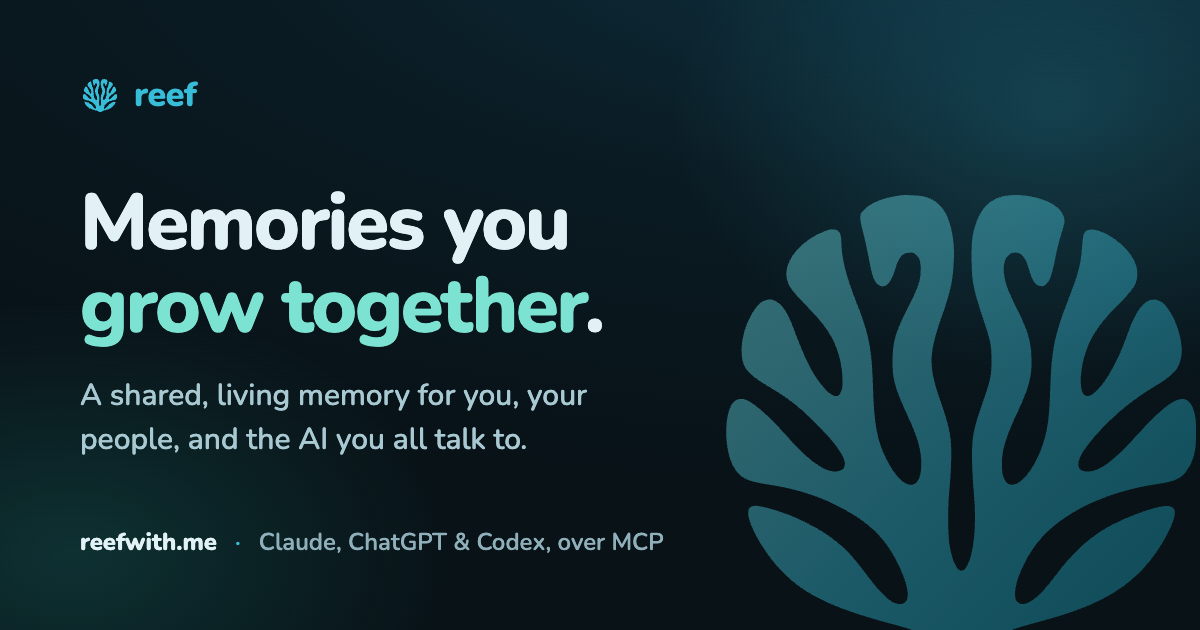
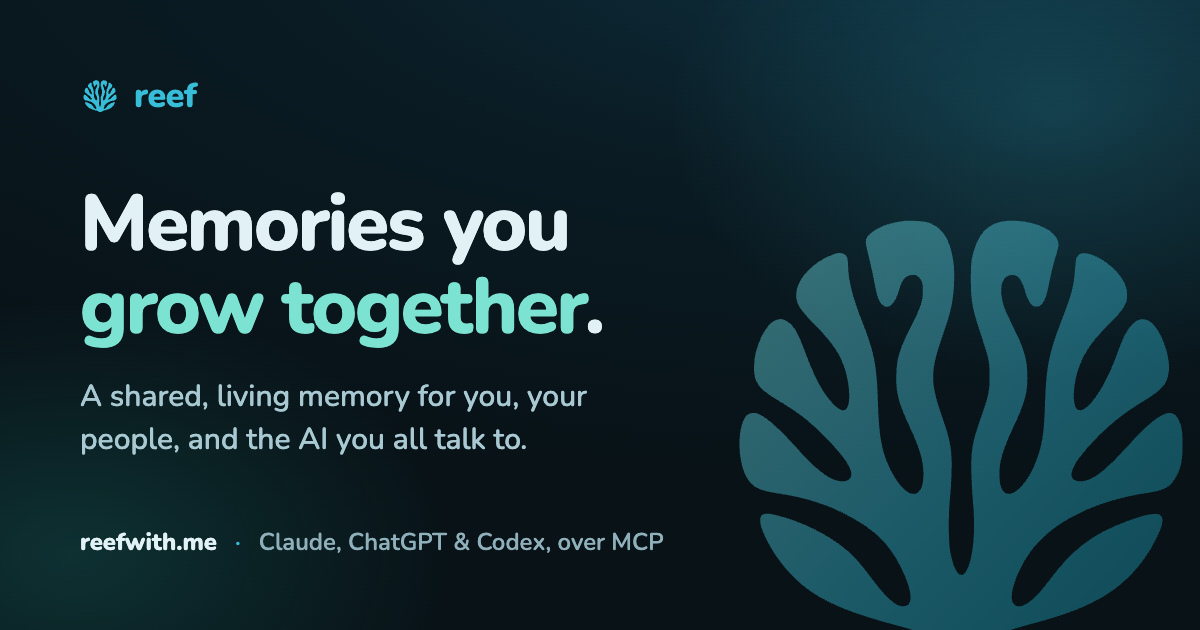
Pad and shrink the brain fan (#89)
* Pad and shrink the brain fan

* docs: add brain fan spacing release note

diff --git a/site/index.html b/site/index.html
@@ -172,7 +172,7 @@ nav {
   font-weight: 800; font-size: 1.2rem; letter-spacing: -0.005em;
   color: var(--accent); text-decoration: none;
 }
-.brand svg { color: var(--accent); width: 21px; height: 18px; }
+.brand svg { color: var(--accent); width: 20px; height: 17px; }
 nav .cta { margin-left: auto; transition: opacity 0.25s ease, visibility 0.25s ease; }
 /* Sign in appears once at a time: the nav button steps aside while the closing panel — which
    carries the same action as its primary call — is on screen. */
@@ -190,7 +190,7 @@ nav.handover .cta { opacity: 0; visibility: hidden; }
 
 /* ---------- hero ---------- */
 .hero { text-align: center; align-items: center; }
-.hero .stage { display: block; width: min(50vmin, 420px); margin: 0 auto; }
+.hero .stage { display: block; width: min(47vmin, 395px); margin: 0 auto; }
 /* Bottom-anchored, because the coral is rooted in the seabed: skew and vertical scale pivot on
    the box's bottom edge, which is exactly the ground line. Block wrappers, not inline-block —
    an inline-block sits on a text baseline and would pivot a few px below the ground. The
@@ -613,7 +613,7 @@ footer a { color: var(--muted); }
 }
 @media (max-width: 680px) {
   body::before { opacity: 0.24; }
-  .hero .stage { width: min(62vw, 330px); }
+  .hero .stage { width: min(58vw, 310px); }
   .story-demo { padding: 1rem; border-radius: 20px; }
   .story-message p { max-width: 92%; }
   .story-route { display: grid; grid-template-columns: 1fr auto 1fr auto 1fr; }
@@ -645,7 +645,7 @@ footer a { color: var(--muted); }
 
 <nav>
   <a class="brand" href="/">
-    <svg viewBox="13.32 14 37.34 36" width="21" height="18" preserveAspectRatio="xMidYMax meet" aria-hidden="true"><use href="#o-coral"/></svg>
+    <svg viewBox="12.2 12.6 39.6 37.4" width="20" height="17" preserveAspectRatio="xMidYMax meet" aria-hidden="true"><use href="#o-coral"/></svg>
     <span>reef</span>
   </a>
   <span class="cta"><a class="btn" href="/api/auth/login">Sign in</a></span>
@@ -656,21 +656,21 @@ footer a { color: var(--muted); }
 <header class="panel hero wrap" id="hero">
   <div class="stage">
     <div class="sway"><div class="breath">
-      <svg class="logo" viewBox="13.32 14 37.34 36" preserveAspectRatio="xMidYMax meet" aria-hidden="true">
+      <svg class="logo" viewBox="12.2 12.6 39.6 37.4" preserveAspectRatio="xMidYMax meet" aria-hidden="true">
         <defs>
           <linearGradient id="hero-reef-gradient" gradientUnits="userSpaceOnUse" x1="15" y1="17" x2="49" y2="50">
             <stop class="reef-gradient-light" offset="0"/>
             <stop class="reef-gradient-mid" offset="0.52"/>
             <stop class="reef-gradient-deep" offset="1"/>
           </linearGradient>
-          <mask id="hero-reef-mask" maskUnits="userSpaceOnUse" x="13.32" y="14" width="37.34" height="36">
+          <mask id="hero-reef-mask" maskUnits="userSpaceOnUse" x="12.2" y="12.6" width="39.6" height="37.4">
             <!-- Every reef mark on the page — here, the nav, the closing lockup — is one
                  instance of the shared outline in the page-level defs. The script warps that
                  single definition, so the gradient mask ripples with the other marks. -->
             <use href="#o-coral" style="color:#fff"/>
           </mask>
         </defs>
-        <rect x="13.32" y="14" width="37.34" height="36" fill="url(#hero-reef-gradient)" mask="url(#hero-reef-mask)"/>
+        <rect x="12.2" y="12.6" width="39.6" height="37.4" fill="url(#hero-reef-gradient)" mask="url(#hero-reef-mask)"/>
       </svg>
     </div></div>
   </div>
@@ -774,7 +774,7 @@ footer a { color: var(--muted); }
       <div class="tour-shell">
         <aside class="tour-sidebar" aria-hidden="true">
           <div class="tour-lockup">
-            <svg viewBox="13.32 14 37.34 36" width="18" height="15" preserveAspectRatio="xMidYMax meet"><use href="#o-coral"/></svg>
+            <svg viewBox="12.2 12.6 39.6 37.4" width="18" height="15" preserveAspectRatio="xMidYMax meet"><use href="#o-coral"/></svg>
             <span>reef</span>
           </div>
           <div class="tour-side-label">Coves</div>
@@ -1020,7 +1020,7 @@ footer a { color: var(--muted); }
 <section class="panel final" id="closing">
   <div class="wrap">
     <div class="lockup">
-      <svg viewBox="13.32 14 37.34 36" width="42" height="35" preserveAspectRatio="xMidYMax meet" aria-hidden="true"><use href="#o-coral"/></svg>
+      <svg viewBox="12.2 12.6 39.6 37.4" width="42" height="35" preserveAspectRatio="xMidYMax meet" aria-hidden="true"><use href="#o-coral"/></svg>
       <span>reef</span>
     </div>
     <p class="sub" style="margin-bottom: 1.7rem;">memories you grow together</p>

diff --git a/scripts/og-card.html b/scripts/og-card.html
@@ -47,17 +47,17 @@ p { margin-top: 26px; font-size: 30px; line-height: 1.45;
 </style></head>
 <body>
 <svg width="0" height="0" style="position:absolute"><defs><path id="o-coral" fill="currentColor" transform="translate(13.335,14) scale(0.0545603) translate(-0.194915,659.820149) scale(0.1,-0.1)" d="M2545 6594 c-247 -36 -410 -96 -515 -191 -95 -85 -97 -108 -35 -346 24 -95 60 -257 80 -362 53 -283 75 -348 135 -399 96 -80 192 6 257 233 46 162 99 223 196 229 57 4 66 1 95 -23 62 -52 77 -96 76 -225 0 -154 -30 -244 -180 -540 -186 -371 -221 -483 -230 -750 -10 -270 29 -423 204 -801 161 -346 213 -524 215 -729 2 -442 -272 -410 -508 60 -135 268 -179 505 -195 1040 -16 562 -60 790 -240 1240 -151 379 -218 645 -221 873 -1 111 -17 158 -59 179 -48 24 -98 22 -173 -6 -323 -121 -569 -389 -570 -621 0 -139 54 -227 288 -465 279 -284 391 -451 469 -698 57 -181 80 -434 49 -537 -36 -120 -114 -115 -235 13 -169 179 -290 410 -469 897 -82 223 -160 339 -262 390 -59 29 -86 31 -151 9 -163 -56 -338 -426 -340 -719 -2 -246 63 -338 366 -520 329 -197 467 -304 713 -550 318 -317 457 -526 420 -631 -30 -83 -168 -96 -301 -29 -150 76 -313 219 -545 480 -261 292 -466 473 -597 525 -52 20 -127 8 -164 -26 -145 -137 -157 -665 -20 -931 92 -179 186 -231 502 -278 417 -62 764 -172 1090 -348 406 -217 630 -438 805 -792 197 -400 201 -628 9 -601 -109 15 -248 144 -466 436 -163 219 -266 333 -401 447 -267 224 -665 421 -1042 517 -151 38 -214 38 -252 0 -104 -104 172 -632 499 -955 327 -324 748 -520 1598 -744 278 -73 459 -144 601 -235 130 -83 227 -110 403 -110 160 0 254 27 389 112 157 99 330 166 622 243 576 152 915 281 1205 461 320 198 586 493 768 851 219 433 118 497 -450 287 -528 -196 -838 -434 -1198 -919 -244 -328 -437 -459 -537 -365 -111 103 46 561 302 879 335 417 986 731 1744 842 285 41 372 92 465 269 69 131 89 235 90 465 1 219 -11 297 -62 403 -101 209 -326 95 -765 -391 -364 -402 -558 -553 -728 -565 -197 -14 -214 131 -42 360 251 332 595 639 968 863 309 185 386 270 415 456 41 256 -141 719 -315 805 -172 84 -330 -78 -469 -481 -197 -570 -507 -1003 -634 -885 -79 74 -57 418 43 672 89 226 201 383 439 622 252 252 302 334 293 488 -4 75 -10 97 -45 171 -143 295 -625 565 -722 404 -21 -34 -23 -48 -40 -247 -19 -229 -49 -340 -204 -744 -197 -513 -236 -708 -256 -1288 -13 -367 -28 -510 -74 -689 -142 -553 -514 -901 -612 -573 -23 76 -23 267 0 374 28 127 93 306 172 474 210 447 250 592 241 876 -8 247 -49 383 -217 725 -127 256 -149 311 -175 444 -42 207 24 361 155 361 93 0 150 -70 200 -245 52 -180 101 -245 186 -245 30 0 44 7 74 39 49 52 73 120 120 351 21 108 55 250 75 315 71 239 70 236 56 298 -38 169 -315 306 -655 324 -342 18 -544 -123 -639 -447 -46 -156 -52 -211 -52 -470 1 -336 20 -435 166 -875 113 -339 123 -387 124 -605 0 -230 -13 -297 -124 -612 -146 -416 -166 -526 -158 -886 3 -130 13 -313 22 -407 48 -488 6 -936 -103 -1112 -86 -138 -185 -19 -244 295 -30 156 -32 595 -4 852 9 91 20 260 23 376 10 349 -13 481 -146 864 -188 538 -186 699 13 1267 127 361 162 527 173 824 7 187 -5 309 -43 464 -63 253 -185 398 -380 450 -58 16 -287 28 -349 19z"/></defs></svg>
-<svg class="mark" viewBox="13.32 14 37.34 36" preserveAspectRatio="xMidYMax meet">
+<svg class="mark" viewBox="12.2 12.6 39.6 37.4" preserveAspectRatio="xMidYMax meet">
   <defs><linearGradient id="g" gradientUnits="userSpaceOnUse" x1="15" y1="17" x2="49" y2="50">
     <stop offset="0" stop-color="#77e4e9"/><stop offset="0.52" stop-color="#38bdd8"/>
     <stop offset="1" stop-color="#1595ab"/></linearGradient>
-    <mask id="m" maskUnits="userSpaceOnUse" x="13.32" y="14" width="37.34" height="36">
+    <mask id="m" maskUnits="userSpaceOnUse" x="12.2" y="12.6" width="39.6" height="37.4">
       <use href="#o-coral" style="color:#fff"/></mask></defs>
-  <rect x="13.32" y="14" width="37.34" height="36" fill="url(#g)" mask="url(#m)"/>
+  <rect x="12.2" y="12.6" width="39.6" height="37.4" fill="url(#g)" mask="url(#m)"/>
 </svg>
 <div class="card">
   <div class="brand">
-    <svg viewBox="13.32 14 37.34 36" width="40" height="33" preserveAspectRatio="xMidYMax meet"
+    <svg viewBox="12.2 12.6 39.6 37.4" width="40" height="33" preserveAspectRatio="xMidYMax meet"
       style="color:#38bdd8"><use href="#o-coral"/></svg><span>reef</span>
   </div>
   <div>

diff --git a/docs/marketing/social-preview.html b/docs/marketing/social-preview.html
@@ -15,7 +15,7 @@
   p.url { font-size:27px; font-weight:700; color:#5b7681; margin-top:30px; letter-spacing:0.04em; }
 </style></head><body>
   <div class="card">
-    <svg class="mark" viewBox="13.32 14 37.34 36" width="300" height="247" preserveAspectRatio="xMidYMax meet">
+    <svg class="mark" viewBox="12.2 12.6 39.6 37.4" width="300" height="247" preserveAspectRatio="xMidYMax meet">
       <path id="o-coral" fill="currentColor" transform="translate(13.335,14) scale(0.0545603) translate(-0.194915,659.820149) scale(0.1,-0.1)" d="M2545 6594 c-247 -36 -410 -96 -515 -191 -95 -85 -97 -108 -35 -346 24 -95 60 -257 80 -362 53 -283 75 -348 135 -399 96 -80 192 6 257 233 46 162 99 223 196 229 57 4 66 1 95 -23 62 -52 77 -96 76 -225 0 -154 -30 -244 -180 -540 -186 -371 -221 -483 -230 -750 -10 -270 29 -423 204 -801 161 -346 213 -524 215 -729 2 -442 -272 -410 -508 60 -135 268 -179 505 -195 1040 -16 562 -60 790 -240 1240 -151 379 -218 645 -221 873 -1 111 -17 158 -59 179 -48 24 -98 22 -173 -6 -323 -121 -569 -389 -570 -621 0 -139 54 -227 288 -465 279 -284 391 -451 469 -698 57 -181 80 -434 49 -537 -36 -120 -114 -115 -235 13 -169 179 -290 410 -469 897 -82 223 -160 339 -262 390 -59 29 -86 31 -151 9 -163 -56 -338 -426 -340 -719 -2 -246 63 -338 366 -520 329 -197 467 -304 713 -550 318 -317 457 -526 420 -631 -30 -83 -168 -96 -301 -29 -150 76 -313 219 -545 480 -261 292 -466 473 -597 525 -52 20 -127 8 -164 -26 -145 -137 -157 -665 -20 -931 92 -179 186 -231 502 -278 417 -62 764 -172 1090 -348 406 -217 630 -438 805 -792 197 -400 201 -628 9 -601 -109 15 -248 144 -466 436 -163 219 -266 333 -401 447 -267 224 -665 421 -1042 517 -151 38 -214 38 -252 0 -104 -104 172 -632 499 -955 327 -324 748 -520 1598 -744 278 -73 459 -144 601 -235 130 -83 227 -110 403 -110 160 0 254 27 389 112 157 99 330 166 622 243 576 152 915 281 1205 461 320 198 586 493 768 851 219 433 118 497 -450 287 -528 -196 -838 -434 -1198 -919 -244 -328 -437 -459 -537 -365 -111 103 46 561 302 879 335 417 986 731 1744 842 285 41 372 92 465 269 69 131 89 235 90 465 1 219 -11 297 -62 403 -101 209 -326 95 -765 -391 -364 -402 -558 -553 -728 -565 -197 -14 -214 131 -42 360 251 332 595 639 968 863 309 185 386 270 415 456 41 256 -141 719 -315 805 -172 84 -330 -78 -469 -481 -197 -570 -507 -1003 -634 -885 -79 74 -57 418 43 672 89 226 201 383 439 622 252 252 302 334 293 488 -4 75 -10 97 -45 171 -143 295 -625 565 -722 404 -21 -34 -23 -48 -40 -247 -19 -229 -49 -340 -204 -744 -197 -513 -236 -708 -256 -1288 -13 -367 -28 -510 -74 -689 -142 -553 -514 -901 -612 -573 -23 76 -23 267 0 374 28 127 93 306 172 474 210 447 250 592 241 876 -8 247 -49 383 -217 725 -127 256 -149 311 -175 444 -42 207 24 361 155 361 93 0 150 -70 200 -245 52 -180 101 -245 186 -245 30 0 44 7 74 39 49 52 73 120 120 351 21 108 55 250 75 315 71 239 70 236 56 298 -38 169 -315 306 -655 324 -342 18 -544 -123 -639 -447 -46 -156 -52 -211 -52 -470 1 -336 20 -435 166 -875 113 -339 123 -387 124 -605 0 -230 -13 -297 -124 -612 -146 -416 -166 -526 -158 -886 3 -130 13 -313 22 -407 48 -488 6 -936 -103 -1112 -86 -138 -185 -19 -244 295 -30 156 -32 595 -4 852 9 91 20 260 23 376 10 349 -13 481 -146 864 -188 538 -186 699 13 1267 127 361 162 527 173 824 7 187 -5 309 -43 464 -63 253 -185 398 -380 450 -58 16 -287 28 -349 19z"/>
       <use href="#o-coral"/>
     </svg>

diff --git a/frontend/src/components/ReefMark.tsx b/frontend/src/components/ReefMark.tsx
@@ -24,10 +24,10 @@ const OUTER_TRANSFORM = "translate(13.335,14) scale(0.0545603)";
 const INNER_TRANSFORM =
   "translate(-0.194915,659.820149) scale(0.1,-0.1)";
 
-/** Crop that ends at the fan's base (y=50), so the glyph sits on a text baseline. */
-const GLYPH_VIEWBOX = "13.32 14 37.34 36";
+/** Padded crop that prevents edge clipping but still ends at the fan's baseline (y=50). */
+const GLYPH_VIEWBOX = "12.2 12.6 39.6 37.4";
 /** Width/height ratio of {@link GLYPH_VIEWBOX}. */
-export const GLYPH_ASPECT = 37.34 / 36;
+export const GLYPH_ASPECT = 39.6 / 37.4;
 
 /** The brain-fan geometry; paint is inherited from the parent. */
 export function FanPaths() {

diff --git a/changes/89-brain-fan-spacing.md b/changes/89-brain-fan-spacing.md
@@ -1,0 +1,5 @@
+---
+kind: fixed
+---
+The brain-fan mark now has clear edge space and a better-balanced size across
+reef's site, app, and shared previews.
